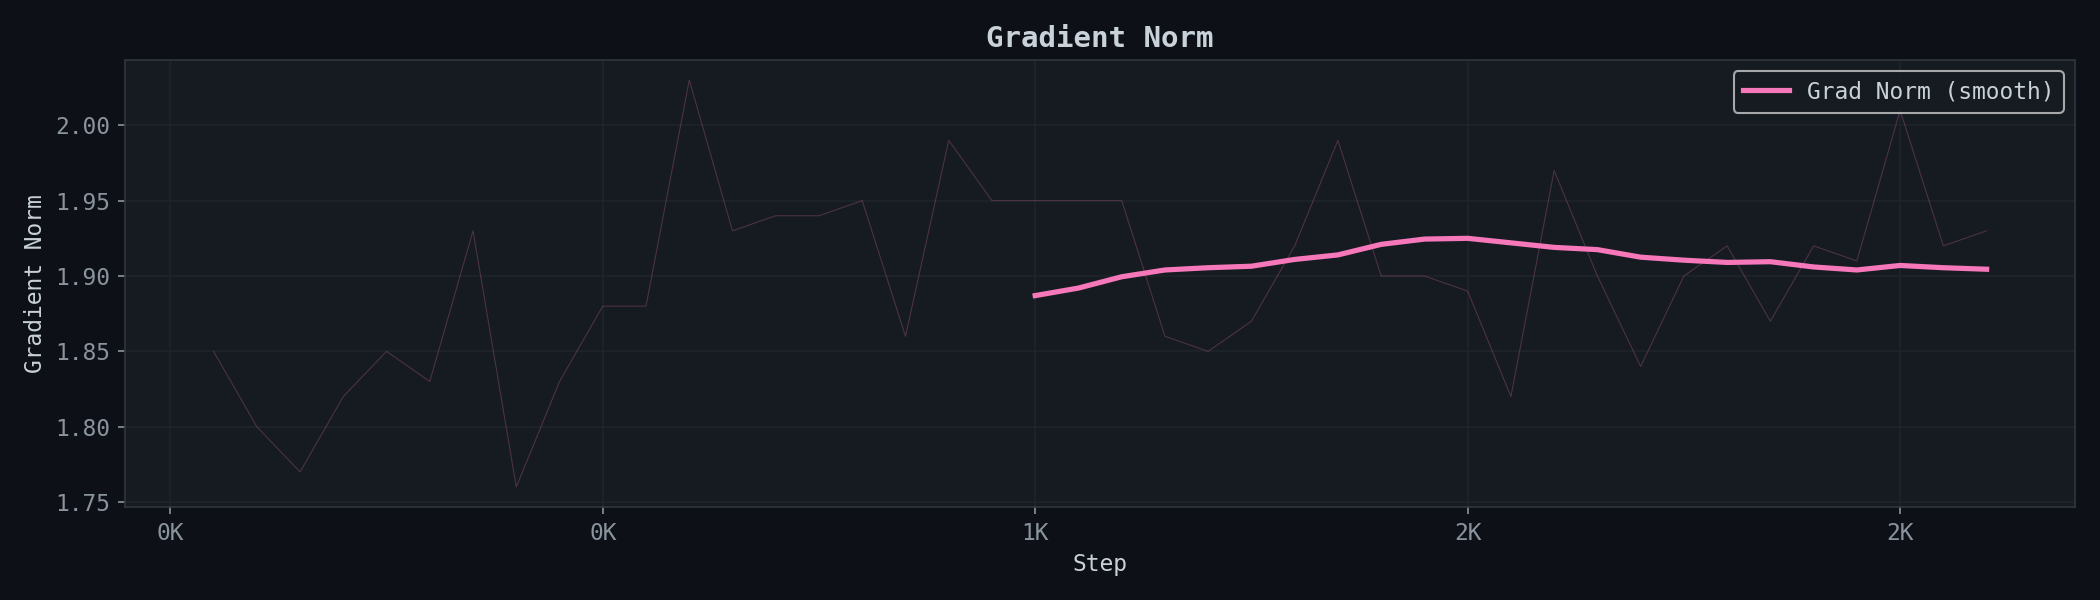
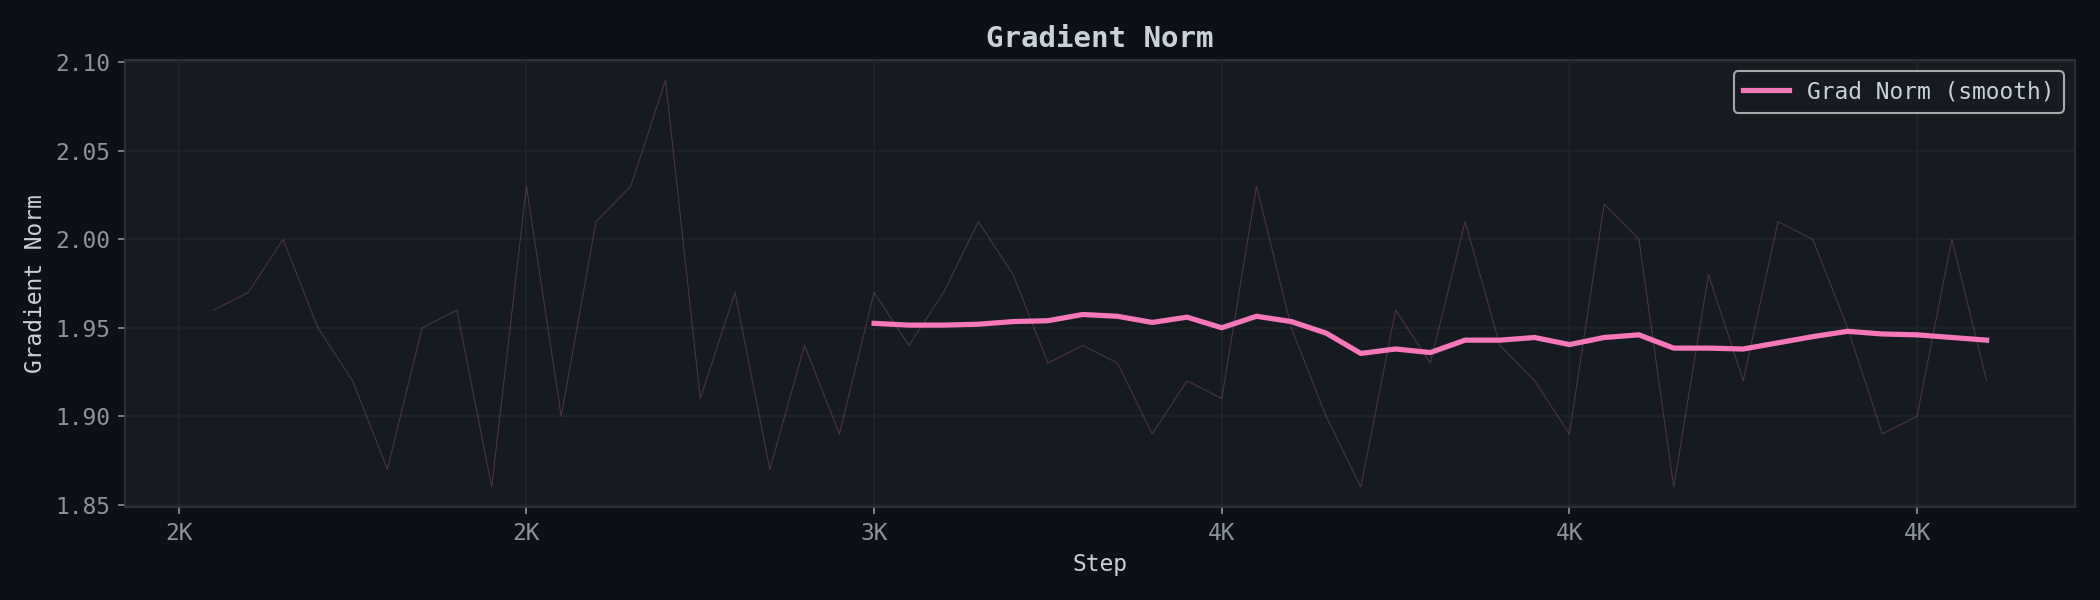
fix: NaN guard in metric_regularization (eigvalsh ill-conditioned matrix)
- Add NaN/Inf check on G before eigvalsh decomposition
- Increase regularization epsilon from 1e-6 to 1e-4
- Add NaN fallback in composite loss total (CE+STP only)
- Update fine-tuning plots (step 5950)

diff --git a/src/aletheion_v2/loss/composite_loss.py b/src/aletheion_v2/loss/composite_loss.py
@@ -160,9 +160,21 @@ class AletheionV2Loss(nn.Module):
         Returns:
             loss: escalar (log condition number)
         """
-        eigenvalues = torch.linalg.eigvalsh(G)
+        # Guard against NaN/Inf in G
+        if torch.isnan(G).any() or torch.isinf(G).any():
+            return torch.tensor(0.0, device=G.device, dtype=G.dtype)
+        # Regularize G to ensure positive definiteness
+        G_reg = G + 1e-4 * torch.eye(G.shape[0], device=G.device, dtype=G.dtype)
+        try:
+            eigenvalues = torch.linalg.eigvalsh(G_reg)
+        except torch._C._LinAlgError:
+            return torch.tensor(0.0, device=G.device, dtype=G.dtype)
+        if torch.isnan(eigenvalues).any():
+            return torch.tensor(0.0, device=G.device, dtype=G.dtype)
+        # Clamp eigenvalues to avoid division by zero or negative
+        eigenvalues = eigenvalues.clamp(min=1e-8)
         # Log condition number
-        kappa = eigenvalues[-1] / (eigenvalues[0] + 1e-10)
+        kappa = eigenvalues[-1] / eigenvalues[0]
         return torch.log(kappa + 1.0)
 
     def _compute_extension_losses(
@@ -388,6 +400,11 @@ class AletheionV2Loss(nn.Module):
 
         # STP (no annealing — active from step 0)
         total = total + self.lambda_stp * stp
+
+        # NaN guard: if total is NaN, fall back to CE-only
+        if torch.isnan(total) or torch.isinf(total):
+            total = self.lambda_ce * ce + self.lambda_stp * stp
+            losses["nan_fallback"] = torch.tensor(1.0, device=ce.device)
 
         losses["total"] = total
 
